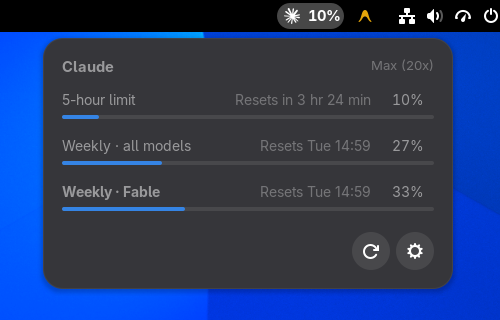
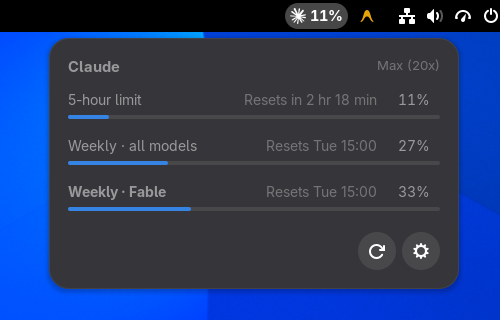
Centre the button's contents in the button
The panel button was lopsided: 7px of space before the icon and 4px after the
figure, measured off the screenshot. Enough to see, once seen.

`.system-status-icon` carries `margin: 0 4px` as well as the padding that was
already dealt with, and a margin on that icon is not symmetrical in its effect
even though it is symmetrical in itself: the space it adds on the left lands
against the button's edge, while the space it adds on the right lands in the
gap before the figure. So one edge got padding plus margin and the other got
padding alone.

With the margin gone both edges are the padding and nothing else, and the gap
inside is the box's own spacing. Re-measured on a fresh screenshot: 5px and
6px, and that last pixel is where the glyphs' own ink starts, not the layout.

The padding goes 6px -> 8px with it. Dropping the margin took 4px off the left
of every button, and two of them side by side then sat closer together than
the shell's own neighbours do; 8px either side keeps them apart and is still
well under the 12px that made the button look detached from its own number.

Claude-Session: https://claude.ai/code/session_01EQVJS3CvqDgyqs2Tk94m42

diff --git a/src/stylesheet.css b/src/stylesheet.css
@@ -16,13 +16,16 @@
    16px icon with a two- or three-character figure beside it that is more room
    than either needs, and the effect is a button whose edge sits a long way
    from its own number. 6px is the shell's own `-minimum-hpadding` -- what it
-   falls back to when the top bar runs out of room -- so the button is still
-   padded with a figure GNOME uses, just the tighter of the two.
+   falls back to when the top bar runs out of room. 8px, because zeroing the
+   icon's margin below takes 4px off the left of every button and two buttons
+   side by side then sit closer to each other than the shell's own do: 8px
+   either side keeps them apart while still being well under the 12px that made
+   the button look detached from its own number.
 
    Two classes and the id, so this outweighs `#panel .panel-button` whatever
    order the two stylesheets happen to load in. */
 #panel .panel-button.ai-usage-panel-button {
-    -natural-hpadding: 6px;
+    -natural-hpadding: 8px;
 }
 
 /* `.system-status-icon` carries 6px of padding either side, which is the shell
@@ -30,16 +33,23 @@
    beside it, and that padding is what was holding the two apart: the icon read
    as one thing and its own percentage as another. The shell has the same
    problem wherever it puts several icons in one button and answers it the same
-   way -- `.panel-status-indicators-box > .system-status-icon { padding: 0 }` --
-   so the padding goes and the 4px margin stays, which with the box's own
-   spacing leaves the gap the shell uses between two icons that belong
-   together. */
+   way -- `.panel-status-indicators-box > .system-status-icon { padding: 0 }`.
+
+   The margin has to go with it, and that is the less obvious half. A margin is
+   symmetrical about the icon, but the icon is not symmetrically placed: the
+   space it adds on the left lands against the button's edge, while the space
+   it adds on the right lands in the gap before the figure. So it made the
+   button lopsided -- 6px of padding plus 4px of margin before the icon,
+   against 6px of padding after the figure -- which is visible as soon as the
+   button is pointed at. With the margin gone the two edges are the padding and
+   nothing else, and the one gap inside is the box's own spacing. */
 .ai-usage-panel-box {
     spacing: 4px;
 }
 
 .ai-usage-panel-box .system-status-icon {
     padding: 0;
+    margin: 0;
 }
 
 .ai-usage-panel-label {
